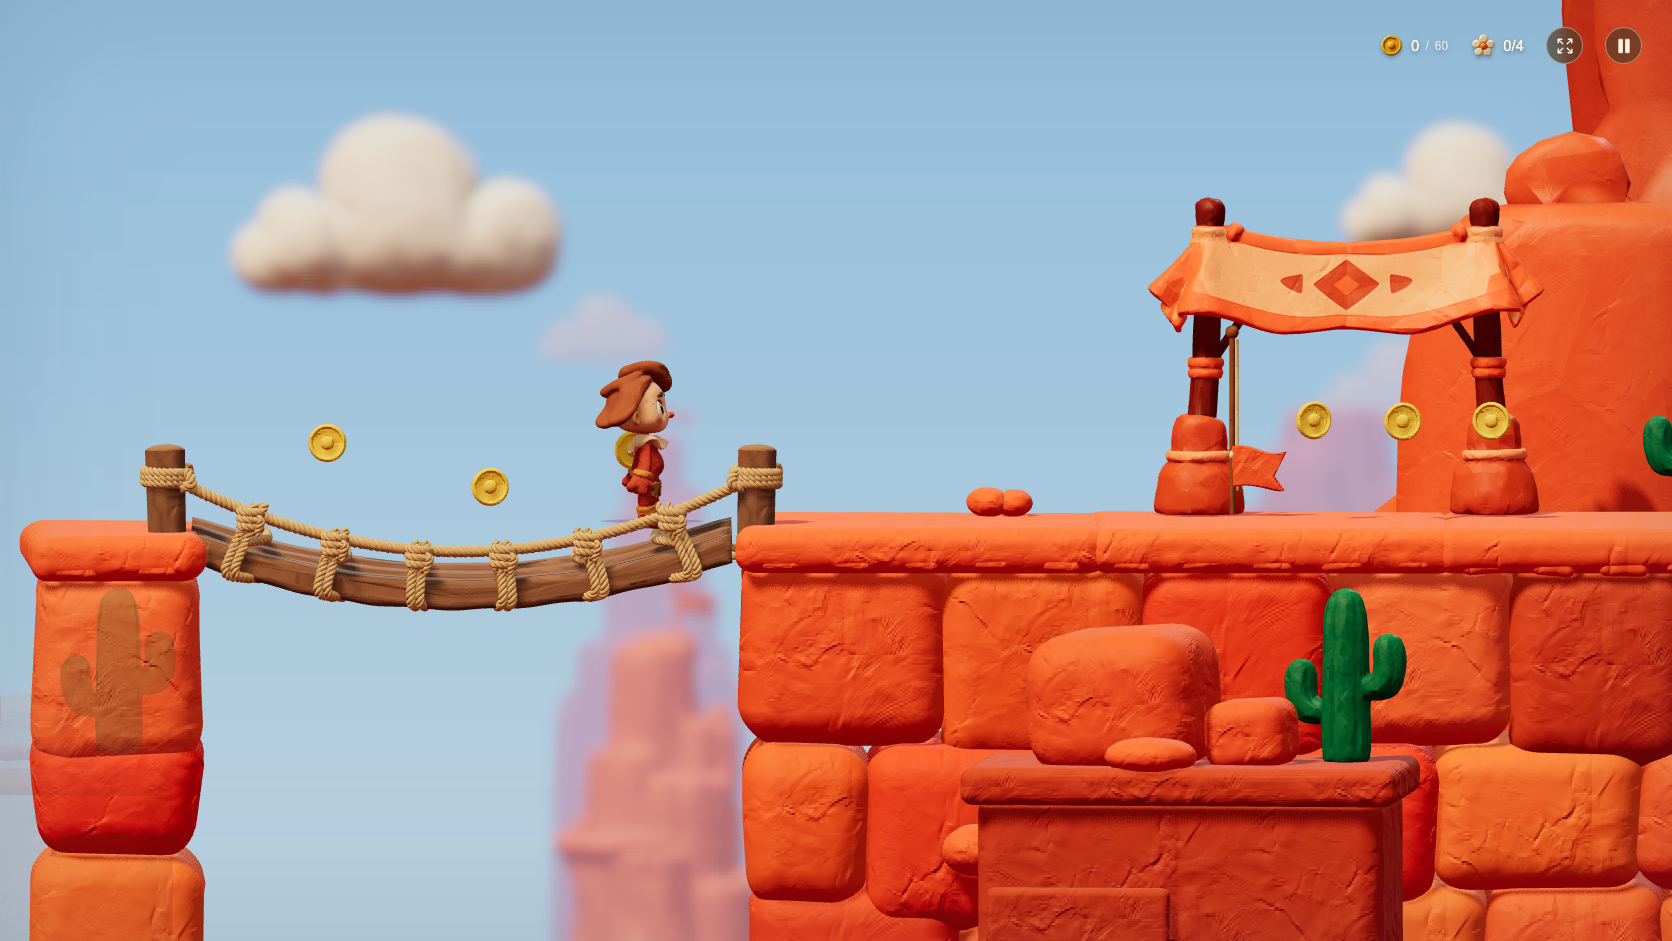
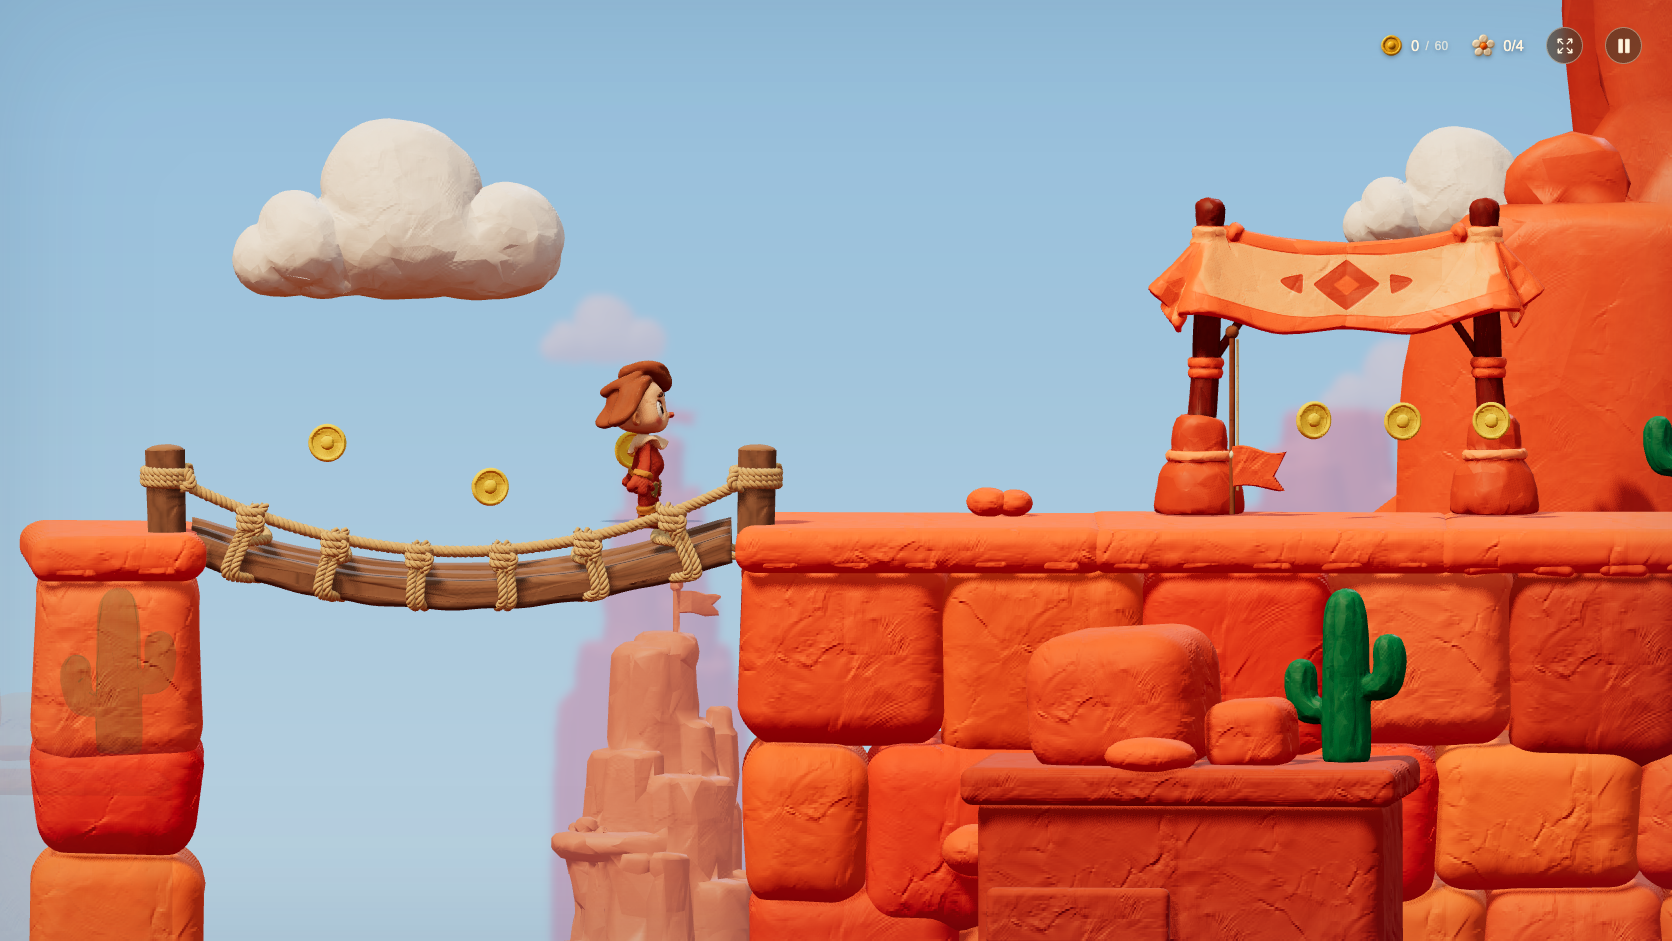
Keep the blur to what is far away, and lighter
Only the far rank of buttes and the farthest cloud rank go soft now, with
the sky behind them; the middle and near ranks and the two nearer cloud
ranks are marked sharp and draw with the playfield. The reach drops from 1.8
to 1.2 half-frame texels. The depth of field belongs to the distance, not to
the mesa a few steps behind the route.

diff --git a/dist/canyon.js b/dist/canyon.js
@@ -358,6 +358,9 @@ function cloudField(w,end){
   const anchors=(w.currentLevel?.platforms||[]).filter(s=>s.id==='arch-drop'&&s.kind==='bridge').map(s=>({x:s.x+s.w*.38,y:s.y+.72,scale:4.1/(w.cloudAsset?.width||1)}));
   CLOUD_RANKS.forEach((rank,r)=>{
     const g=group(w.backRoot);g.name='Canyon clouds '+r;
+    // Only the farthest rank takes the depth pass's blur, with the far buttes
+    // it stands among; the two nearer ranks draw crisp.
+    if(r>0)g.userData.sharp=true;
     // The middle rank lends a cloud to the Boulder Drop's authored composition:
     // the nearest unfogged, unflattened rank, so the piece stays a white cloud.
     w.parallax.push({group:g,factor:rank.factor,heightFollow:1,...(r===1?{anchors}:{})});
@@ -379,11 +382,13 @@ const SKY_STOPS=[[30,0x71a8e3],[5,0x75ade5],[1.5,0x7eb4e7],[-1.5,0x8bbde9],[-5,0
 
 export function buildCanyonBackdrop(w){
   // `sky` keeps the gradient quad out of the depth pass's probe, which needs
-  // to see clay; `sharp` keeps the nearest rank out of its blur — it stands
-  // just behind the route and blurring it would soften the play plane's edge.
+  // to see clay; `sharp` keeps a rank out of its blur. Only the far rank is
+  // blurred — the depth of field belongs to what is far away — and the two
+  // nearer ranks draw crisp with the playfield, the nearest of them standing
+  // just behind the route.
   const sky=group(w.backRoot);sky.name='Canyon sky';sky.userData.sky=true;w.parallax.push({group:sky,factor:0,heightFollow:1});
   skyGradient(w,sky,SKY_STOPS,{name:'Canyon sky gradient'});
-  const far=group(w.backRoot),middle=group(w.backRoot),low=group(w.backRoot);low.userData.sharp=true;
+  const far=group(w.backRoot),middle=group(w.backRoot),low=group(w.backRoot);middle.userData.sharp=low.userData.sharp=true;
   far.name='Canyon far buttes';middle.name='Canyon middle buttes';low.name='Canyon near buttes';
   w.parallax.push({group:far,factor:.17,heightFollow:1},{group:middle,factor:.36,heightFollow:1},{group:low,factor:.62,heightFollow:1});
   for(let i=-2;i<10;i++){

diff --git a/dist/citadel-depth.js b/dist/citadel-depth.js
@@ -11,8 +11,9 @@ import {cullCaveCells} from './cavern.js';
 // frame blurred across into a second target, then blurred down as it is
 // composited — a separable Gaussian, nine taps each way, its reach set in
 // half-frame texels. Backdrop groups marked `userData.sharp` (the canyon's
-// nearest rank of buttes) stay out of the blur and draw with the playfield.
-const SOFT={forest:2.2,citadel:.7},STRONG={desert:{scale:.5,radius:1.8}};
+// two nearer ranks of buttes and clouds) stay out of the blur and draw with
+// the playfield, so only what is far away goes soft.
+const SOFT={forest:2.2,citadel:.7},STRONG={desert:{scale:.5,radius:1.2}};
 const VERTEX='varying vec2 vUv; void main(){vUv=uv;gl_Position=vec4(position.xy,1.0,1.0);}';
 // Nine-tap Gaussian along `step` (a texel vector already scaled by the reach).
 const GAUSS=`vec3 gauss(sampler2D map,vec2 uv,vec2 step){

diff --git a/docs/canyon-blur/README.md b/docs/canyon-blur/README.md
@@ -11,10 +11,13 @@ blur/composite the citadel and forest use — over a backdrop that "can
 disappear on mobile". It now takes the pass, and a stronger one: the
 backdrop draws into a half-size target, is blurred across into a second
 target and blurred down as it is composited (a separable nine-tap Gaussian,
-reach 1.8 half-frame texels), then the playfield draws over the composite.
-The nearest rank of buttes is marked `userData.sharp` and draws with the
-playfield instead, so the play plane's edge stays crisp. The citadel, forest
-and soft dream sections keep their original single 3×3 pass.
+reach 1.2 half-frame texels), then the playfield draws over the composite.
+Only what is far away goes soft: the far rank of buttes and the farthest
+cloud rank (with the sky). The middle and near ranks and the two nearer
+cloud ranks are marked `userData.sharp` and draw with the playfield. A first
+pass blurred the middle rank too at reach 1.8; the user asked for the blur
+to stay on the distant elements and to be lighter. The citadel, forest and
+soft dream sections keep their original single 3×3 pass.
 
 ## The probe
 
@@ -41,11 +44,10 @@ offscreen target itself, which is how the render was shown to be working.
 
 ## Cost
 
-Per frame at the windwell ledge: 409 → 395 draw calls and 456 k → 404 k
-triangles (the composite quad replaces the blurred ranks' individual draws in
-the frame pass), plus two half-resolution fullscreen passes. 66 checks green;
+Per frame at the windwell ledge: 409 → 403 draw calls and 456 k → 430 k
+triangles, plus two half-resolution fullscreen passes. 66 checks green;
 `tests/scene-canyon.mjs` now asserts the three-pass shape and that only the
-near rank draws sharp.
+sharp-marked ranks draw with the playfield.
 
 **Still needs a phone test.** The probe's fallback is the direct draw, which
 is what shipped before, so the failure mode is "no blur", not "no backdrop".
